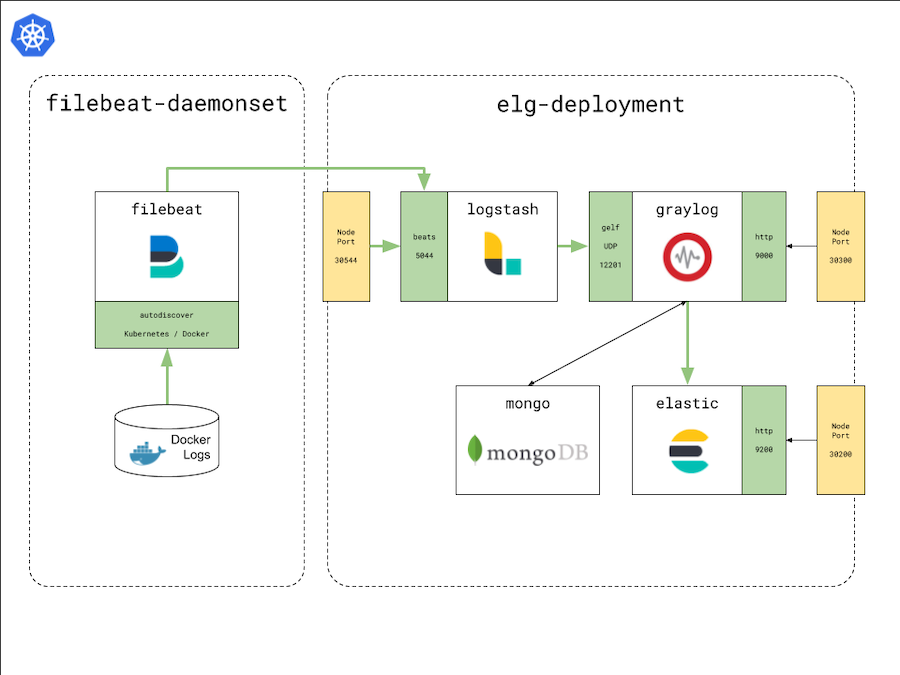
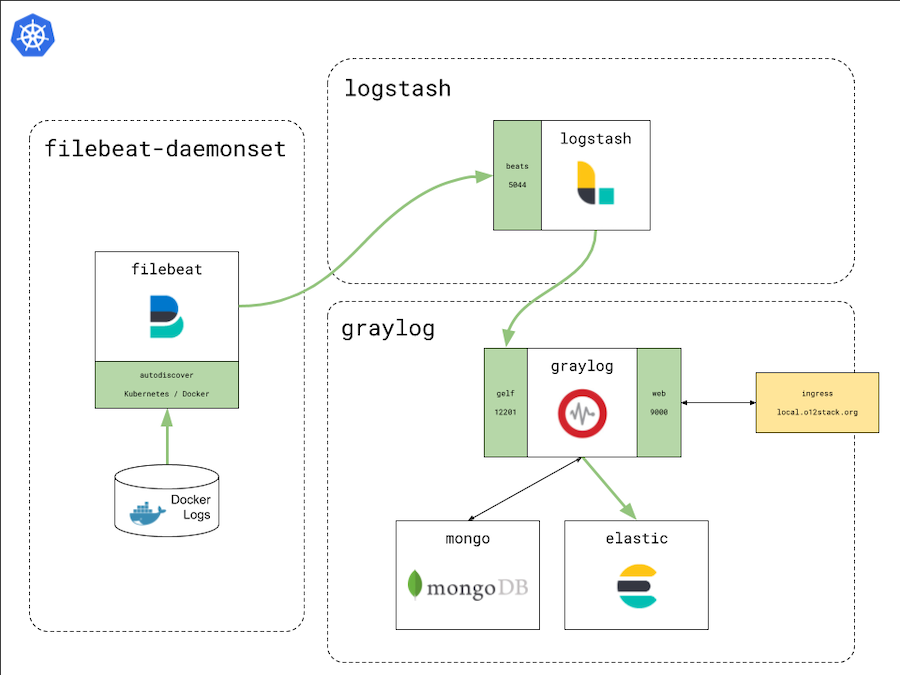
adjusted docs to latest changes

diff --git a/README.md b/README.md
@@ -11,11 +11,11 @@ The logging stack consists of these components:
 ![The Logging Stack](docs/FelgStack.png)
 
 * The "ELG" stack
-  * running inside the Kubernetes deployment `elg-deployment`
+  * running inside the Kubernetes deployments `logstash` and `graylog`
   * `logstash` filters and enriches log records
   * `graylog` manages the indexes and provides a search and management UI
   * `elastic` stores the log records in indexes
-  * `mongo`is a Mongo DB that stores metadata for Graylog
+  * `mongo` is a Mongo DB that stores metadata for Graylog
 
 * Filebeat
   * running inside a Kubernetes daemonset `filebeat-daemonset` 
@@ -23,10 +23,9 @@ The logging stack consists of these components:
   * `filebeat` reads the Docker outputs of a subset of the running containers of a Kubernetes node
 
 * Communication and Services
-  * `logstash` offers a `beats` protocol Kubernetes service listening on port `5044`. A corresponding `NodePort` makes the service available for non-Kubernetes applications. The latter is not shown in this demo.
+  * `logstash` offers a `beats` protocol Kubernetes service listening on port `5044`.
   * `graylog` offers a `gelf` input service to ingest the logs into the index.
-  * On the other hand, `graylog` gives access to its web UI via a service. The corresponding `NodePort` makes sure that you can access the UI from the outside.
-  * The services offered by `elastic` were only used for troubleshooting and exploration, their usage is not shown in the demo.
+  * On the other hand, `graylog` gives access to its web UI via an ingress. 
 
 ## The Log Message Flow
 
@@ -48,19 +47,27 @@ This section shows you how to run the demo. For further details, please have a c
 
 The resources you need for the ELG stack can be found in `demo/stack-elg/'
 
-Set up the needed Kubernetes services by applying the corresponding files:
+Once Graylog is running, it will be accessed via `local.o12stack.org`.
+To prepare that access, you have to insert a corresponding entry in 
+your `/etc/hosts` file. These two commands do the trick:
 
-    kubectl apply -f service-elasticsearch.yml
-    kubectl apply -f service-graylog.yml
-    kubectl apply -f service-logstash.yml
+    sudo sed -i '' '/local.o12stack.org/d' /etc/hosts
+    sudo bash -c 'echo "$(minikube ip)    local.o12stack.org" >> /etc/hosts'
+
+Set up the required Kubernetes services/ingresses by applying the corresponding files:
+
+    kubectl apply -f graylog-service.yml
+    kubectl apply -f graylog-ingress.yml
+    kubectl apply -f logstash-service.yml
 
 The configuration for logstash lives in a `ConfigMap`:
 
     kubectl apply -f logstash-config.yml
 
-Now, you can do the actual deployment that starts the stack:
+Now, you can do the actual deployments that starts the stack:
 
-    kubectl apply -f elg-deployment.yml
+    kubectl apply -f graylog-deployment.yml
+    kubectl apply -f logstash-deployment.yml
 
 As of now, we cannot configure the Graylog server purely by the means of Kubernetes definitions, so there is a small script that does the rest:
 
@@ -70,7 +77,7 @@ The script is quite verbose and takes you to the rest of the setup of the ELG st
 
 ### Filebeat daemonset
 
-The resources you need for the Filebeat DaemonSet can be found in `demo/stack-filebeat/'
+The resources you need for the Filebeat DaemonSet can be found in `demo/stack-filebeat/`
 
 The configuration for filebeat lives in a `ConfigMap`:
 

diff --git a/docs/MINIKUBE.md b/docs/MINIKUBE.md
@@ -15,6 +15,13 @@ To start your local **minikube** installation, use this command:
 minikube start --vm-driver=hyperkit --memory 8192 --cpus 3
 ```
 
+We use an Kubernetes ingress to access the Graylog UI via the web browser.
+To enable ingresses in your minikube, use this command:
+
+```
+minikube addons enable ingress
+```
+
 ## Kubernetes Dashboard
 
 Although you can work with your Kubernetes cluster purely via the command line (`kubectl`), sometimes you might find a UI useful. To start a browser-based Dashboard UI:
